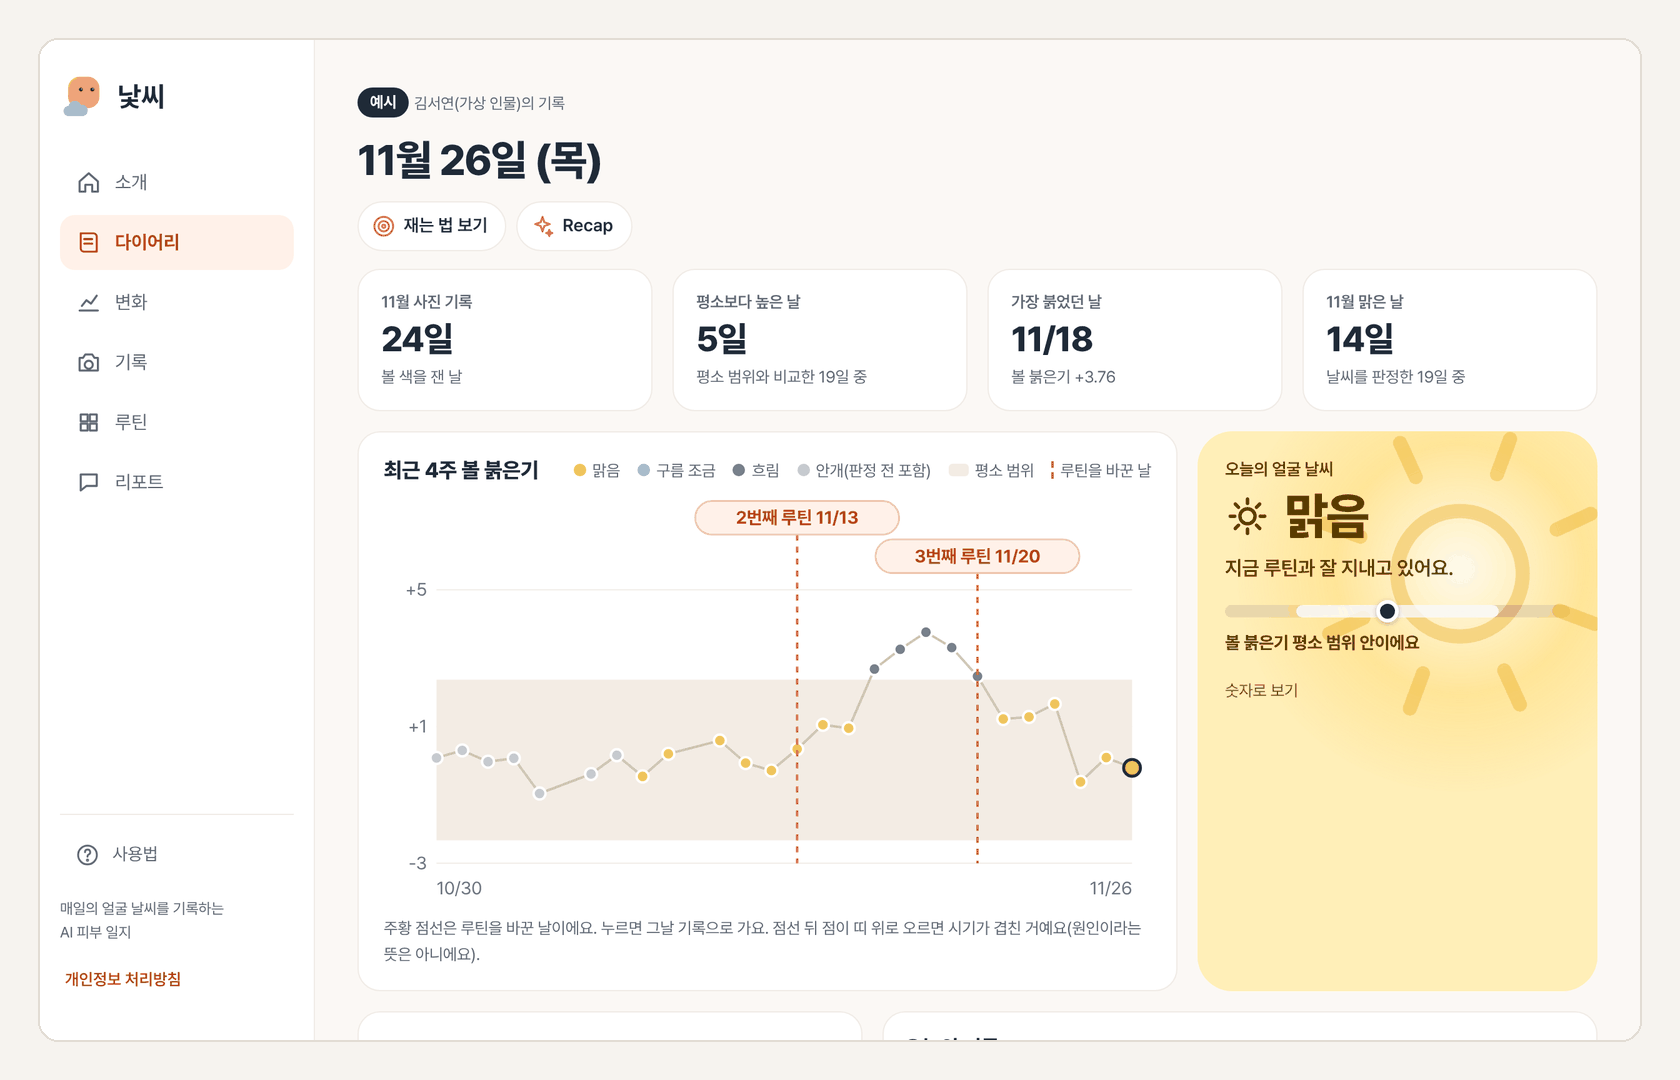
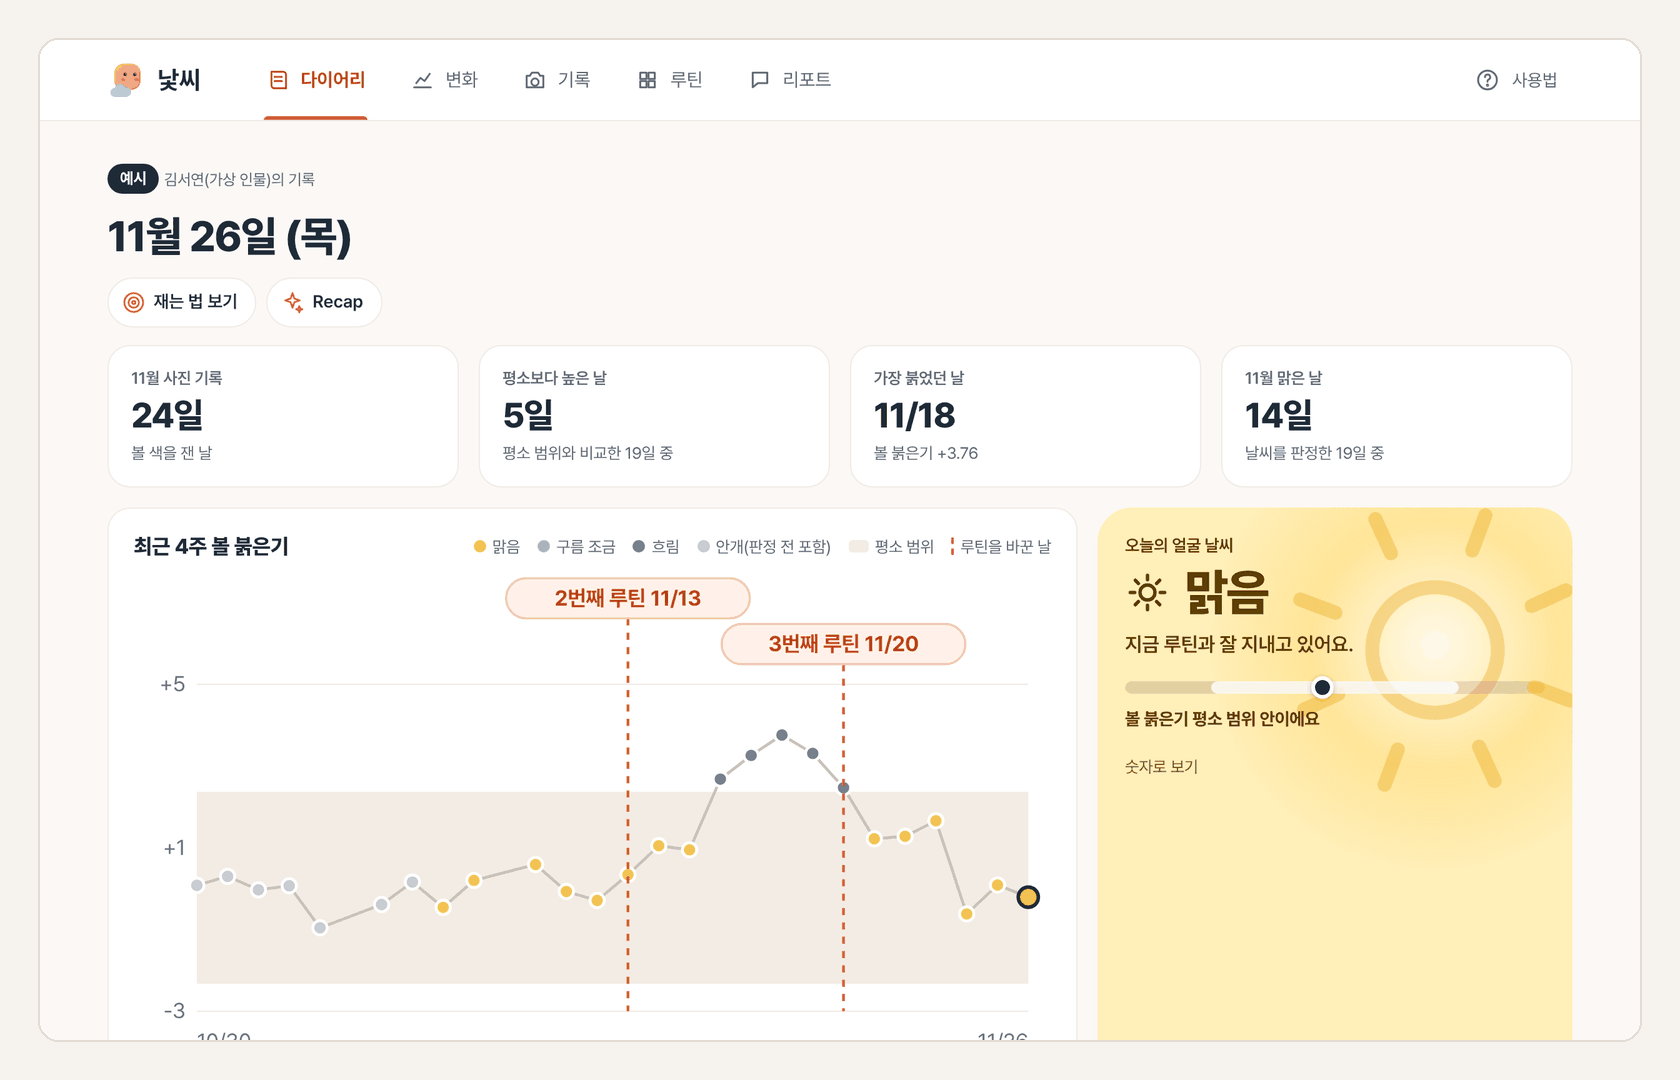
style: PC 왼쪽 메뉴를 위쪽 메뉴로(로고, 탭 5개, 사용법과 계정), 메뉴 아래 링크는 페이지 맨 아래로, README와 소개 페이지 PC 캡처 갱신

diff --git a/frontend/src/styles.css b/frontend/src/styles.css
@@ -106,16 +106,18 @@ section>*+*{margin-top:12px}
 .tabbar .fab{color:var(--accent-ink);font-weight:600}
 
 @media (min-width:900px){
-  .shell{display:flex}
-  .side{display:block;width:220px;flex:none;align-self:stretch;min-height:100dvh;background:#fff;border-right:1px solid var(--line)}
-  .side-in{position:sticky;top:0;height:100dvh;display:flex;flex-direction:column;padding:26px 16px}
-  .brand{display:flex;align-items:center;gap:8px;font-size:22px;font-weight:700;margin-bottom:28px}.brand img{width:38px;height:38px}
-  .side nav{display:flex;flex-direction:column;gap:4px}
-  .side nav button{display:flex;align-items:center;gap:10px;min-height:44px;padding:0 12px;border-radius:12px;font-size:15px;color:var(--sub);text-align:left}
-  .side nav button.on{background:var(--tint);color:var(--accent-ink);font-weight:700}
-  .side-foot{margin-top:auto;font-size:12px;color:var(--sub);line-height:1.6}
+  /* 위쪽 메뉴: 화면 위에 붙는 한 줄(로고, 메뉴 5개, 오른쪽에 사용법과 계정). 폰은 아래 탭 */
+  .side{display:block;position:sticky;top:0;z-index:30;background:rgba(255,255,255,.94);backdrop-filter:saturate(1.2) blur(8px);border-bottom:1px solid var(--line)}
+  .side-in{display:flex;align-items:center;gap:40px;max-width:1240px;margin:0 auto;padding:0 34px;min-height:64px}
+  .brand{display:flex;align-items:center;gap:8px;font-size:20px;font-weight:700}.brand img{width:32px;height:32px}
+  .side nav{display:flex;gap:12px}
+  .side nav button{position:relative;display:flex;align-items:center;gap:8px;min-height:64px;padding:0 12px;font-size:15px;color:var(--sub)}
+  .side nav button svg{width:20px;height:20px}
+  .side nav button:hover:not(.on){color:var(--ink)}
+  .side nav button.on{color:var(--accent-ink);font-weight:700}
+  .side nav button.on::after{content:"";position:absolute;left:10px;right:10px;bottom:0;height:3px;border-radius:3px 3px 0 0;background:var(--accent)}
   .tabbar{display:none}
-  .main{flex:1;padding:28px 34px 40px;margin:0}
+  .main{max-width:1240px;margin:0 auto;padding:24px 34px 32px}
   h1{font-size:28px}
   .grid2{grid-template-columns:1fr 1fr;gap:18px;align-items:start}
   .grid2.wide-left{grid-template-columns:1.6fr 1fr}
@@ -129,7 +131,6 @@ section>*+*{margin-top:12px}
 .topline{display:flex;align-items:center;justify-content:space-between;gap:8px;flex-wrap:wrap;margin-bottom:10px}
 .topline .demo-bar{margin-bottom:0}
 .link.strong{font-weight:700;color:var(--accent-ink)}
-.side-foot{font-size:12px;color:var(--sub);margin-top:auto;display:grid;gap:6px;justify-items:start}
 .auth,.account,.legal{max-width:560px}
 .legal{max-width:720px}
 .field{display:grid;gap:6px;margin-top:14px;font-size:13.5px}
@@ -978,15 +979,13 @@ button.fm-box:focus-visible{outline:3px solid #fff;outline-offset:2px}
 /* PC: 사용법과 계정은 왼쪽 메뉴 아래(위쪽 아이콘은 숨김), 내용은 넓은 화면에서 가운데 */
 .side-tools{display:none}
 @media (min-width:900px){
-  .side-tools{display:flex;flex-direction:column;gap:2px;margin-top:auto;padding-top:12px;border-top:1px solid var(--line)}
+  .side-tools{display:flex;gap:4px;margin-left:auto}
   .side-tools button{display:flex;align-items:center;gap:10px;min-height:40px;padding:0 12px;border-radius:12px;font-size:14px;color:var(--sub);text-align:left}
   .side-tools button:hover{background:#faf6f2}
   .side-tools button.on{background:var(--tint);color:var(--accent-ink);font-weight:700}
   .side-tools svg{width:20px;height:20px;fill:none;stroke:currentColor;stroke-width:1.800;stroke-linecap:round;stroke-linejoin:round}
-  .side-tools+.side-foot{margin-top:14px}
   .top-actions{display:none}
   .topline:not(:has(.demo-note)){display:none}
-  .main{max-width:1240px;margin:0 auto}
 }
 .cam-debug{position:absolute;left:12px;right:12px;top:calc(60px + env(safe-area-inset-top));margin:0;padding:6px 10px;border-radius:8px;background:rgba(0,0,0,.6);color:#fff;font:12px/1.4 ui-monospace,monospace;z-index:2}
 /* 소개 페이지: 왼쪽 메뉴 없이 화면 폭을 다 쓰고, 내용은 가운데 */
@@ -994,3 +993,19 @@ button.fm-box:focus-visible{outline:3px solid #fff;outline-offset:2px}
   .shell.intro .main{max-width:1200px;margin:0 auto;padding-top:20px}
   .shell.intro .landing{max-width:none}
 }
+
+.app-foot{display:none}
+@media (min-width:900px){
+  /* 위쪽 메뉴로 바꾸면서 메뉴 아래에 있던 링크(한 줄 소개, 낯씨 소개, 처리방침)는 페이지 맨 아래로 */
+  .app-foot{display:flex;flex-wrap:wrap;align-items:center;gap:6px 18px;margin-top:40px;padding-top:18px;border-top:1px solid var(--line);font-size:13px;color:var(--sub)}
+  .app-foot .link{min-height:32px;padding:0;font-size:13px}
+}
+/* 위쪽 메뉴가 좁은 PC(900~1100px)에서 한 줄에 들어가게: 간격을 줄이고 오른쪽 사용법, 계정은 아이콘만 */
+@media (min-width:900px) and (max-width:1099px){
+  .side-in{gap:16px;padding:0 20px}
+  .side nav{gap:2px}
+  .side nav button{padding:0 10px}
+  .side-tools .tl{position:absolute;width:1px;height:1px;overflow:hidden;clip:rect(0 0 0 0);white-space:nowrap}
+  .main{padding:20px 20px 28px}
+}
+.side nav button:focus-visible,.side-tools button:focus-visible{outline:2px solid var(--ink);outline-offset:-4px;border-radius:10px}

diff --git a/frontend/src/App.jsx b/frontend/src/App.jsx
@@ -110,9 +110,9 @@ export default function App() {
   return (
     <>
     <div className={'shell' + (showLanding ? ' intro' : '')}>
-      {/* 소개 페이지에서는 왼쪽 메뉴를 빼고 화면을 다 쓴다(들어가는 길은 '예시 둘러보기' 하나). 둘러본 뒤에는 메뉴의 '소개'나 로고로 돌아온다 */}
+      {/* PC는 위쪽 메뉴, 폰은 아래 탭. 소개 페이지에서는 메뉴를 빼고 화면을 다 쓴다(들어가는 길은 '예시 둘러보기' 하나) */}
       <aside className="side" hidden={showLanding}>
-        <div className="side-in">{/* 메뉴는 화면에 붙어 있고, 흰 바탕과 경계선은 페이지 길이만큼 이어진다 */}
+        <div className="side-in">{/* PC: 화면 위에 붙는 한 줄(로고, 메뉴 5개, 사용법과 계정) */}
         <button className="brand" onClick={goHome} aria-label="낯씨 홈으로(오늘 다이어리)"><img src="/logo.svg" alt="" />낯씨</button>
         <nav aria-label="주 메뉴">
           {TABS.map((t) => (
@@ -123,22 +123,17 @@ export default function App() {
           ))}
         </nav>
         {meta.data && (
-          <div className="side-tools">{/* PC: 사용법과 계정은 위쪽 아이콘 대신 왼쪽 메뉴 아래에 */}
+          <div className="side-tools">{/* PC: 사용법과 계정은 위쪽 메뉴 오른쪽에(좁은 PC에서는 아이콘만, 이름은 화면 읽기용으로 남김) */}
             <button onClick={() => setGuide(true)}>
-              <svg viewBox="0 0 24 24" aria-hidden="true"><circle cx="12" cy="12" r="9" /><path d="M9.600 9.300a2.500 2.500 0 1 1 3.400 2.300c-.700.300-1 .800-1 1.500v.6" /><circle cx="12" cy="17" r=".6" /></svg>사용법
+              <svg viewBox="0 0 24 24" aria-hidden="true"><circle cx="12" cy="12" r="9" /><path d="M9.600 9.300a2.500 2.500 0 1 1 3.400 2.300c-.700.300-1 .800-1 1.500v.6" /><circle cx="12" cy="17" r=".6" /></svg><span className="tl">사용법</span>
             </button>
             {meta.data.auth && (
               <button className={page === 'account' || page === 'auth' ? 'on' : ''} aria-current={page === 'account' || page === 'auth' ? 'page' : undefined} onClick={() => setPage(viewer ? 'account' : 'auth')}>
-                <svg viewBox="0 0 24 24" aria-hidden="true"><circle cx="12" cy="8.500" r="3.800" /><path d="M4.500 20a7.500 7.500 0 0 1 15 0" /></svg>{viewer ? '내 계정' : '로그인 또는 가입'}
+                <svg viewBox="0 0 24 24" aria-hidden="true"><circle cx="12" cy="8.500" r="3.800" /><path d="M4.500 20a7.500 7.500 0 0 1 15 0" /></svg><span className="tl">{viewer ? '내 계정' : '로그인 또는 가입'}</span>
               </button>
             )}
           </div>
         )}
-        <div className="side-foot">
-          <p>매일의 얼굴 날씨를 기록하는<br />AI 피부 일지</p>
-          {intro && <button className="link" onClick={goIntro}>낯씨 소개</button>}{/* 로그인 전 PC: 소개 페이지로 돌아가는 길(로고는 오늘 다이어리로) */}
-          <button className="link" onClick={() => goLegal('privacy')}>개인정보 처리방침</button>
-        </div>
         </div>
       </aside>
 
@@ -174,6 +169,13 @@ export default function App() {
             {tab === 'routine' && (viewer ? <MyRoutine ocr={!!meta.data.ocr} /> : <Routine />)}
             {tab === 'report' && (viewer ? <MineGate title="리포트" go={setTab}><Report mine viewer={viewer} aiAvailable={meta.data.ai_available} onLegal={goLegal} onChanged={refreshAll} cacheKey={'mine|' + viewer.email + '|' + meta.data.today + '|' + (viewer.ai_report ? 'ai' : 'tpl')} /></MineGate> : <Report onOpenDay={(iso) => { setDate(iso); setTab('diary') }} canStart={canStart} onStart={() => setPage('auth')} cacheKey={(viewer?.email || 'demo') + '|' + meta.data.today} />)}
           </div>
+        )}
+        {meta.data && !showLanding && (
+          <footer className="app-foot">{/* PC: 위쪽 메뉴로 바꾸면서 메뉴 아래에 있던 링크를 페이지 맨 아래로 */}
+            <span>매일의 얼굴 날씨를 기록하는 AI 피부 일지</span>
+            {intro && <button className="link" onClick={goIntro}>낯씨 소개</button>}
+            <button className="link" onClick={() => goLegal('privacy')}>개인정보 처리방침</button>
+          </footer>
         )}
       </main>
 
